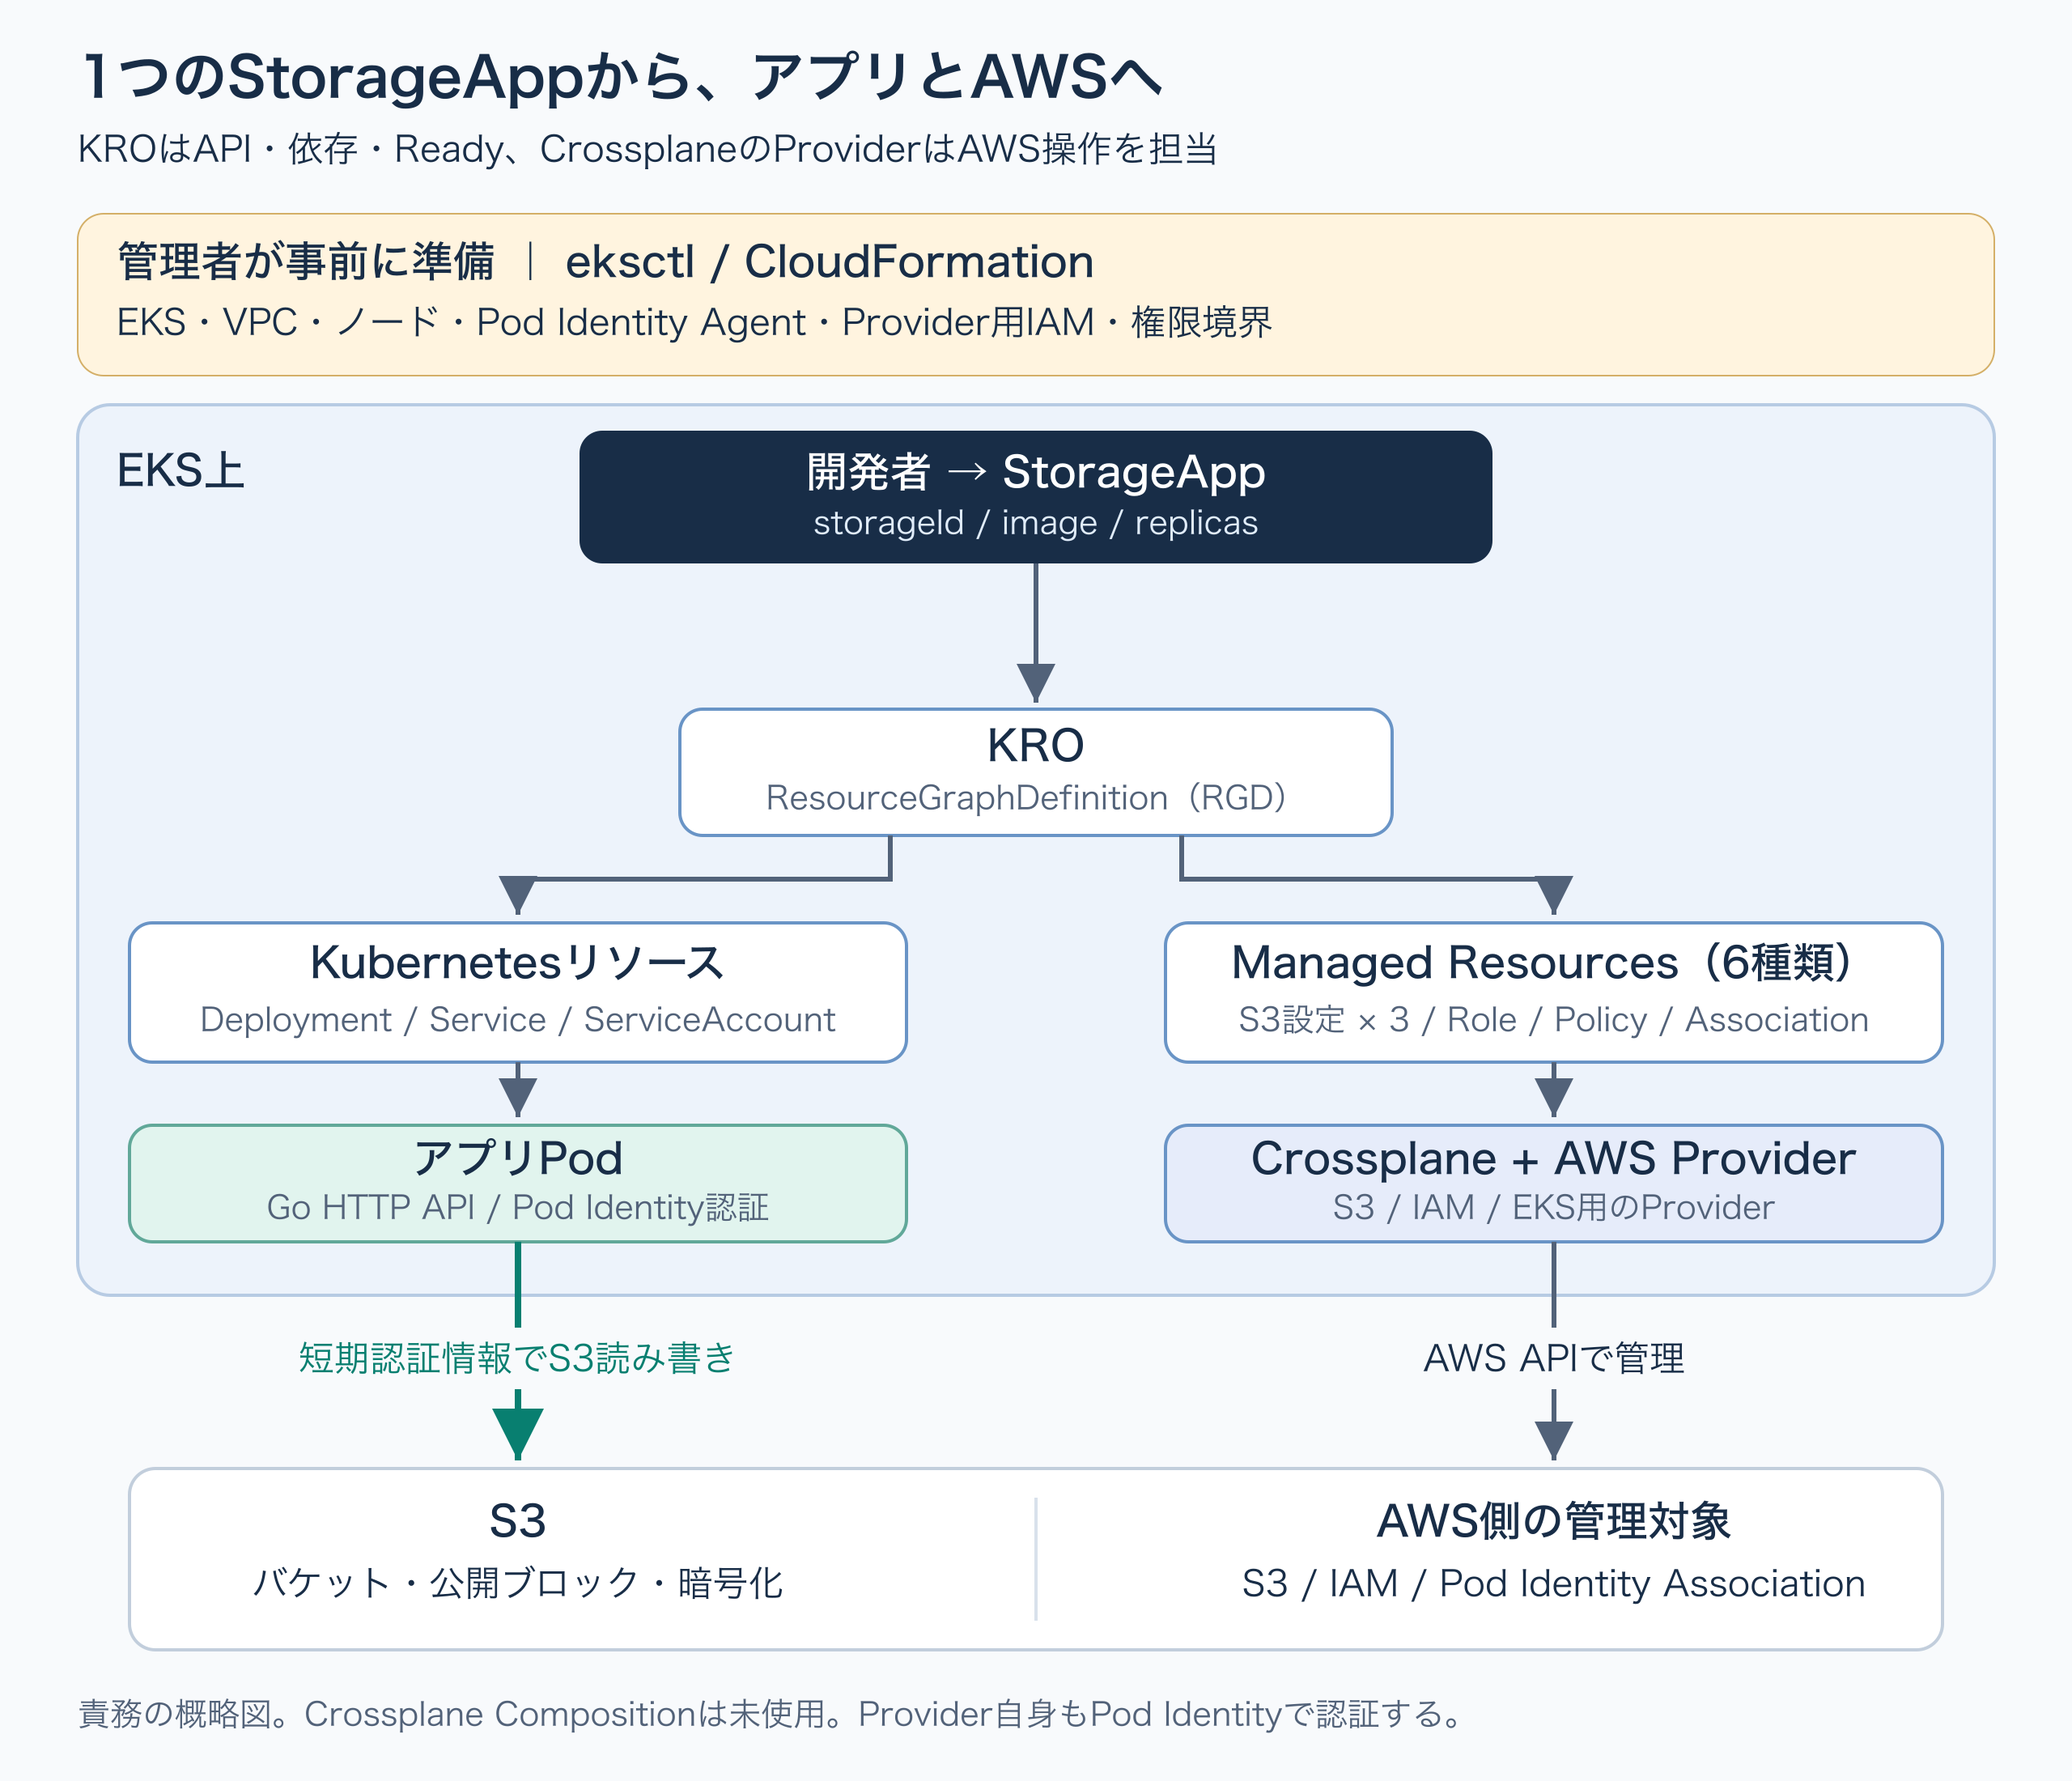
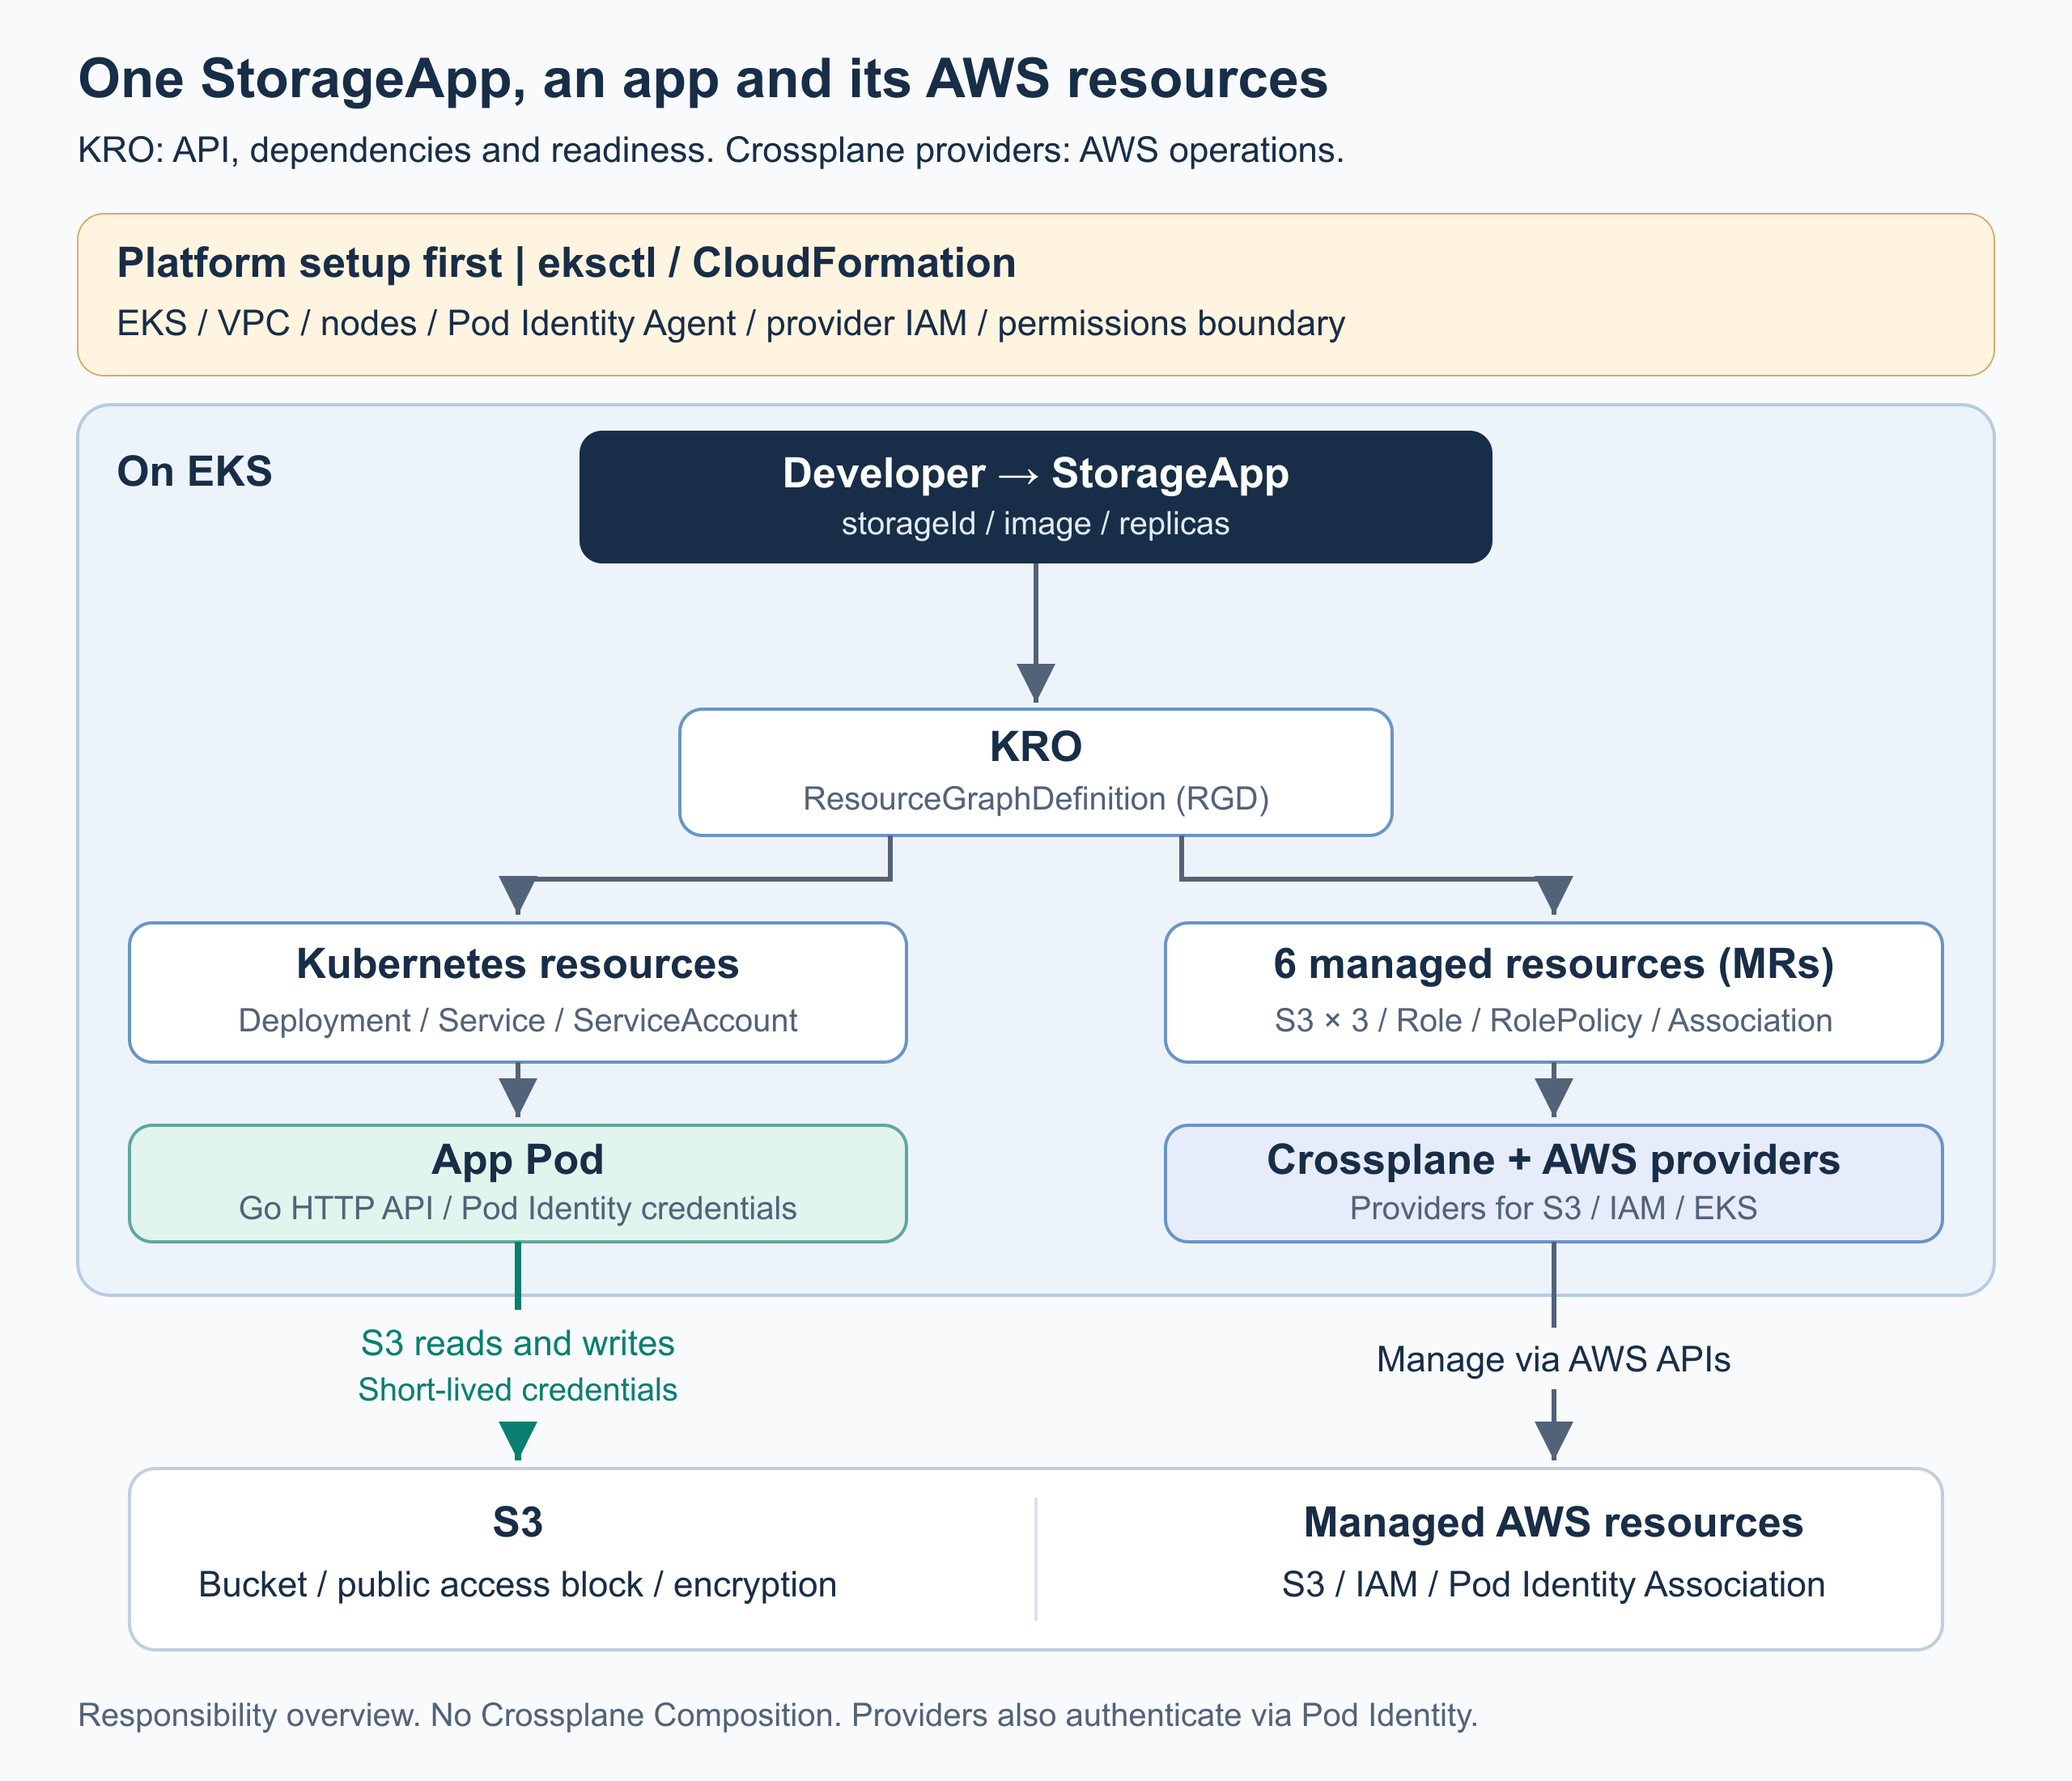
docs(diagrams): use English labels for Qiita and dev.to

diff --git a/docs/diagrams/README.md b/docs/diagrams/README.md
@@ -1,7 +1,9 @@
-# Qiita記事用の図
+# Qiita・dev.to記事共通の図
 
 2026-10-02の実装とAWS検証記録をもとにした説明図。スクリーンショットとは区別する。
 本文挿入用のPNGと、文字・線・配置を編集できるSVGを同じ名前で保存する。
+図中のタイトル・ラベル・注記とSVGの代替説明は英語に統一し、Qiitaとdev.toで同じ画像を使う。
+言語ごとの説明は記事本文・キャプション・代替テキストで補う。
 
 | 図 | 説明 | 編集用 |
 |---|---|---|
@@ -9,8 +11,8 @@
 | [02-readiness.png](02-readiness.png) | `_health/*` のPutObject拒否がアプリ側のReadyへ伝播し、MRはTrueを維持する観測 | [SVG](02-readiness.svg) |
 | [03-retention.png](03-retention.png) | StorageApp削除、S3保持、同じIDでの再接続、元データの照合 | [SVG](03-retention.svg) |
 
-PNGはSVGを2倍の寸法でラスタライズしたもの。日本語フォントはHiragino Sansを使用した。
-SVGは外部画像・スクリプトを含まない。PNGを書き出し直す場合は、日本語フォントを用意して
+PNGはSVGを2倍の寸法でラスタライズしたもの。フォントはArial（代替はHelvetica、sans-serif）。
+SVGは外部画像・スクリプトを含まない。PNGを書き出し直す場合は、Arialを使える
 SVG対応エディター等から幅2560pxで出力し、文字化け・はみ出しを確認する。
 
 図は実測値の説明のために作成しており、AWSコンソールやコントローラーの画面を模したものではない。
